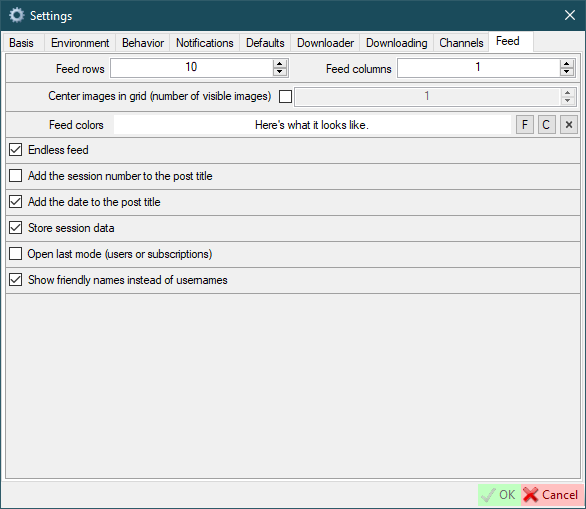
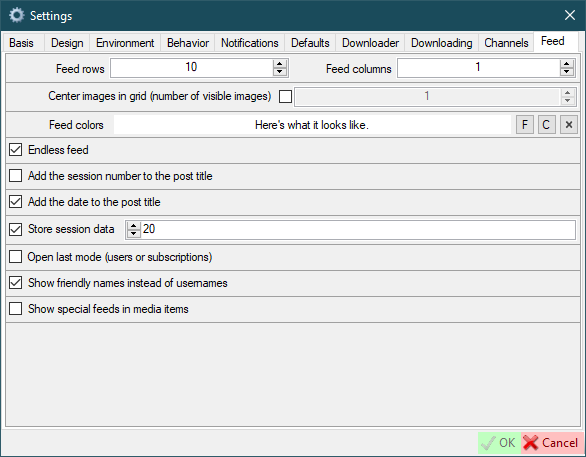
2023.11.17.0

Changed region(s): [[0.0, 0.0, 1.0, 0.7046], [0.0, 0.919, 1.0, 1.0]]

diff --git a/README.md b/README.md
@@ -12,7 +12,7 @@
 :eu:
 :greece:
 
-A program to download photo and video from [any site](#supported-sites) (e.g. YouTube, YouTube Music, OnlyFans, Reddit, Twitter, Mastodon, Instagram, Threads, TikTok, RedGifs, JustForFans, PornHub, XHamster, XVIDEOS, ThisVid, LPSG, Pinterest).
+A program to download photo and video from [any site](#supported-sites) (e.g. YouTube, YouTube Music, OnlyFans, Reddit, Twitter, Mastodon, Instagram, Threads, Facebook, TikTok, RedGifs, JustForFans, PornHub, XHamster, XVIDEOS, ThisVid, LPSG, Pinterest).
 
 **If you like SCrawler, please like the program on [this site](https://alternativeto.net/software/scrawler/about/) and/or [this](https://www.softpedia.com/get/Internet/Download-Managers/Social-networks-crawler.shtml)**
 <!---Do you like this program? Consider adding to my coffee fund by making a donation to show your support. :blush:
@@ -39,6 +39,7 @@ A program to download photo and video from [any site](#supported-sites) (e.g. Yo
   - Mastodon images and videos, saved (bookmarked) posts;
   - Instagram images and videos, tagged posts, stories, saved posts;
   - Threads images and videos;
+  - Facebook images and videos, saved posts;
   - TikTok videos;
   - Pinterest boards, users, saved posts;
   - Imgur images, galleries and videos;
@@ -54,6 +55,7 @@ A program to download photo and video from [any site](#supported-sites) (e.g. Yo
 - **Advanced user management**
 - **Automation** ([downloading data automatically](https://github.com/AAndyProgram/SCrawler/wiki/Settings#automation) every ```X``` minutes)
 - **Feed** ([feed](https://github.com/AAndyProgram/SCrawler/wiki#feed) of downloaded media files and subscriptions posts)
+- Multiple accounts support
 - Labeling users
 - Create [download groups](https://github.com/AAndyProgram/SCrawler/wiki/Settings#download-groups)
 - Adding users to favorites and temporary
@@ -76,6 +78,7 @@ A program to download photo and video from [any site](#supported-sites) (e.g. Yo
 - **Mastodon**
 - **Instagram**
 - **Threads**
+- **Facebook**
 - JustForFans
 - TikTok
 - RedGifs
@@ -128,6 +131,7 @@ First, the program downloads the full profile. After the program downloads only 
   - [Mastodon](https://github.com/AAndyProgram/SCrawler/wiki/Settings#mastodon)
   - [Instagram](https://github.com/AAndyProgram/SCrawler/wiki/Settings#instagram)
   - [Threads](https://github.com/AAndyProgram/SCrawler/wiki/Settings#threads)
+  - [Facebook](https://github.com/AAndyProgram/SCrawler/wiki/Settings#facebook)
   - [JustForFans](https://github.com/AAndyProgram/SCrawler/wiki/Settings#justforfans)
   - [TikTok](https://github.com/AAndyProgram/SCrawler/wiki/Settings#tiktok)
   - [RedGifs](https://github.com/AAndyProgram/SCrawler/wiki/Settings#redgifs)
@@ -195,7 +199,6 @@ F5-->[*]
 
 Discord server: https://discord.gg/uFNUXvFFmg
 
-[e-mail](mailto:andyprogram@proton.me): andyprogram@proton.me
 <!--
 [e-mail](mailto:andyprogram@proton.me): andyprogram@proton.me
 

diff --git a/Changelog.md b/Changelog.md
@@ -1,3 +1,33 @@
+# 2023.11.17.0
+
+*2023-11-17*
+
+- Added
+  - **Facebook**
+  - **Multi-account**
+  - **Special feeds**
+  - Site settings: option `Download saved posts`
+  - Standalone downloader: support for multiple account
+  - PornHub: add playlists downloading
+  - YouTube: ability to download subtitles **and** `CC` if they both exists
+  - Other improvements
+- PluginProvider
+  - `IDownloadableMedia`: added `AccountName` property
+  - `IPluginContentProvider`: added `AccountName` property
+  - `ISiteSettings`: added properties: `AccountName`, `Temporary`, `AvailableText`, `DefaultInstance`; added functions: `Clone`, `Update`, `Delete`; removed `Load` function; implement `IDisposable` interface
+  - `PropertyValue`: added functions: `BeginInit`, `EndInit`, `Clone`
+  - `Attributes.DoNotUse` - add `Value` field
+- Fixed
+  - Instagram: handling 401 error
+  - OnlyFans: handling 401 error
+  - xHamster: handling 503 error
+  - xHamster: incorrect parsing of search queries
+  - XVideos: incorrect parsing of search queries
+  - ThisVid: incorrect parsing of search queries
+  - PornHub: incorrect parsing of search queries
+  - Automation: handle automation start error (in some cases) when changing scheduler
+  - Minor bugs
+
 # 2023.10.10.0
 
 *2023-10-10*

diff --git a/CONTRIBUTING.md b/CONTRIBUTING.md
@@ -39,5 +39,4 @@ I welcome requests! Follow these steps to contribute:
 If I'm interested in a site you want to add, it may be added in future releases.
 
 # Sites I will never develop
-- Facebook
 - Tumblr
